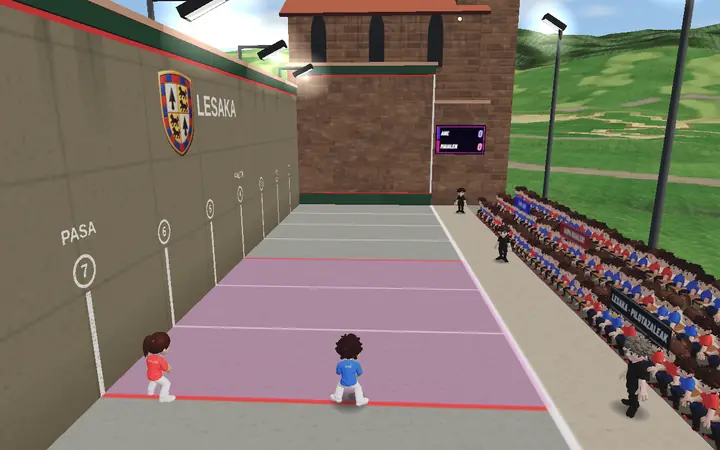
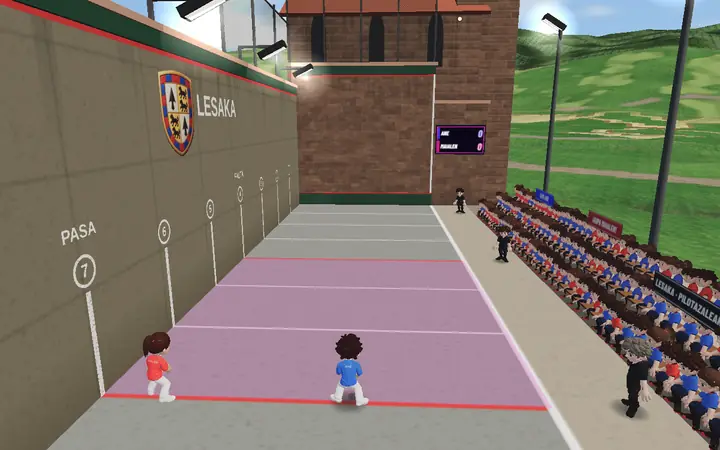
Frontones con la arquitectura de los de verdad: cada cubierto como un frontón real de las fotos y la red de las plazas
Claude-Session: https://claude.ai/code/session_01LP3syHb7415C8M5w3wgHaS

Changed region(s): [[0.6111, 0.4044, 1.0, 1.0], [0.3056, 0.0, 0.6111, 0.1867]]

diff --git a/src/pelota/court.js b/src/pelota/court.js
@@ -121,6 +121,23 @@ const THEMES = {
 const LABRIT_CONTRA = 4.4;
 // el frontón cubierto de los campeonatos: alto hasta el techo y contracancha algo más ancha (con la grada al lado)
 const HALL_H = 13, HALL_CONTRA = 3.4, HALL_ROWS = 7;
+// La arquitectura del cubierto de cada sede, sacada de las fotos de frontones de verdad del capítulo «Frontones de
+// Navarra» (src/assets/frontones): el techo, las paredes de encima de la cancha, la de detrás de la grada y el fondo. Los
+// colores de la cancha (frontis, pared izquierda, marco, suelo y rayas) van en fronton.js (ARQ_LOOK), con el contraste que
+// pide la pelota. pabellon: el de siempre, oscuro y moderno (el Navarra Arena); erminea: el Erminea de Isaba, techo blanco
+// con cerchas claras y tubos de luz; ziordia: igual de claro, con el frontis de sillería en su marco azul; iraneta: bóveda
+// de madera laminada con el ventanal en arco encima del frontis; igantzi: a dos aguas con cerchas de madera; urroz: a dos
+// aguas con cerchas rojas de acero en celosía y placas de policarbonato; peralta: la nave en dientes de sierra
+const ARQ = {
+  pabellon: { techo: 'oscuro', alto: '#e3dccd', sobre: '#24202c', derecha: 'madera', ventanas: 'franja', fondo: '#a7a29a' },
+  erminea: { techo: 'blanco', alto: '#f0ede6', sobre: '#f0ede6', claro: '#ece9e2', derecha: 'claro', ventanas: 'franja', fondo: '#d6d1c6', marcoLado: true, acero: '#cfd0d4' },
+  ziordia: { techo: 'blanco', alto: '#f1eee8', sobre: '#f1eee8', claro: '#ece8e0', derecha: 'claro', ventanas: 'franja', fondo: '#d9d3c7', marcoLado: true, acero: '#cfd0d4' },
+  iraneta: { techo: 'arco', alto: null, sobre: null, claro: '#e8e4d8', derecha: 'madera', ventanas: 'none', fondo: null },
+  igantzi: { techo: 'madera', alto: '#ebe6d9', sobre: '#ebe6d9', claro: '#e6e0d2', derecha: 'madera', ventanas: 'none', fondo: '#cdc6b6', marcoLado: true },
+  urroz: { techo: 'cerchas', alto: '#f4f1eb', sobre: '#f4f1eb', claro: '#efe9dc', derecha: 'policarbonato', ventanas: 'none', fondo: '#e0b84a' },
+  peralta: { techo: 'sierra', alto: '#ece6d8', sobre: '#e4ddcc', claro: '#ebe5d6', derecha: 'claro', ventanas: 'none', fondo: '#d4c8b0' },
+};
+export const ARQUITECTURAS = Object.keys(ARQ);
 export function labritExtent() {
   const W = COURT.W, EXT = COURT.L + 3, xr = W / 2 + LABRIT_CONTRA, zf = EXT + 0.3, xa = -W / 2 - 0.6, xb = xr + 14.6, za = -1.0, zb = zf + 14.6;
   return { x0: xa - 4.9, x1: xb + 4.9, z0: za - 4.9, z1: zb + 6.5 };
@@ -277,7 +294,7 @@ export class PelotaCourt {
     chapaLine.position.set(0, C.CHAPA, 0.035); g.add(chapaLine);   // (la raya, donde siempre: lo que da por debajo es chapa)
     // y arriba, como en los frontones de verdad, otra chapa: la franja de metal por encima de la raya de arriba del frontis
     // (lo que da ahí es fuera, y suena a chapa) con su colchón, el remate doblado que sobresale, como el de la de abajo
-    const chapaArribaMat = M({ color: th.chapa, metalness: th.chapaMetal ? 0.3 : 0, roughness: 0.48 }), hA = C.FRONT_H - C.FRONT_TOP;
+    const chapaArribaMat = M({ color: th.marco || th.chapa, metalness: th.chapaMetal && !th.marco ? 0.3 : 0, roughness: 0.48 }), hA = C.FRONT_H - C.FRONT_TOP;   // (con marco, del color del marco: el azul del Erminea de Isaba o de Ziordia)
     const chapaArriba = new T.Mesh(new T.BoxGeometry(W, hA, 0.05), chapaArribaMat); chapaArriba.position.set(0, C.FRONT_TOP + hA / 2, 0.025); chapaArriba.receiveShadow = true; chapaArriba.name = 'chapa-arriba'; g.add(chapaArriba);
     const colchonArriba = new T.Mesh(new T.BoxGeometry(W, 0.06, 0.11), chapaArribaMat); colchonArriba.position.set(0, C.FRONT_TOP + 0.03, 0.055); colchonArriba.castShadow = true; g.add(colchonArriba);
 
@@ -371,7 +388,7 @@ export class PelotaCourt {
     { const raya = new T.Mesh(new T.PlaneGeometry(EXT, 12 / 512 * C.LEFT_H), M({ color: th.mark, roughness: 0.7, polygonOffset: true, polygonOffsetFactor: -1, polygonOffsetUnits: -2 }));
       raya.rotation.y = Math.PI / 2; raya.position.set(-W / 2 + 0.008, C.LEFT_LINE, EXT / 2); raya.receiveShadow = true; raya.name = 'raya-izquierda'; g.add(raya);
       // (y encima de la raya, la chapa de arriba de la pared izquierda con su colchón, como la del frontis)
-      const mA = M({ color: th.chapa, metalness: th.chapaMetal ? 0.3 : 0, roughness: 0.48 }), hL = C.LEFT_H - C.LEFT_LINE - 0.02;
+      const mA = M({ color: th.marco || th.chapa, metalness: th.chapaMetal && !th.marco ? 0.3 : 0, roughness: 0.48 }), hL = C.LEFT_H - C.LEFT_LINE - 0.02;
       const chL = new T.Mesh(new T.BoxGeometry(0.05, hL, EXT), mA); chL.position.set(-W / 2 + 0.025, C.LEFT_LINE + 0.02 + hL / 2, EXT / 2); chL.receiveShadow = true; chL.name = 'chapa-izquierda'; g.add(chL);
       const coL = new T.Mesh(new T.BoxGeometry(0.11, 0.06, EXT), mA); coL.position.set(-W / 2 + 0.055, C.LEFT_LINE + 0.05, EXT / 2); coL.castShadow = true; g.add(coL); }
 
@@ -434,6 +451,7 @@ export class PelotaCourt {
     else if (HALL) this.buildHall(T, M, th, W, CONTRA, EXT, L, opts);
     else if (th.roof) this.buildRoof(T, M, th, -W / 2 - 0.6, W / 2 + CONTRA + 3.3, -0.9, EXT + 0.5);
     if (!opts.labrit && !HALL) this.buildFloods(T, M, !!th.roof, W, CONTRA, EXT, CALLE);
+    if (!opts.labrit && !HALL && th.red && !th.roof) this.buildRed(T, M, W, EXT);
     // dónde cabe la cámara del partido (match.js, cabe): bajo la cubierta, sin llegar a su estructura (más arriba, las
     // vigas, los tirantes y la chapa quedaban delante y tapaban la imagen entera); en el cubierto, sin pasar del rebote,
     // que llega al techo; en el Labrit, sin meterse en la grada del fondo. En el pueblo, Fronton añade las casas de detrás
@@ -768,41 +786,111 @@ export class PelotaCourt {
   // Sin anuncios ni escudos de clubes. Dentro no se ve nada de fuera: no hace falta paisaje.
   buildHall(T, M, th, W, CONTRA, EXT, L, opts = {}) {
     const C = COURT, g = this.group, H = HALL_H, xs = W / 2 + CONTRA + 0.2, RD = 0.8, RU = 0.42, xr = xs + HALL_ROWS * RD + 0.5, za = -0.8, zb = EXT + 0.4;
+    const A = ARQ[opts.arq] || ARQ.pabellon, ALTO = A.alto || th.wall, SOBRE = A.sobre || th.wall, FONDO = A.fondo || th.wall;
     const box = (w, h, d, mat, x, y, z) => { const m = new T.Mesh(new T.BoxGeometry(w, h, d), mat); m.position.set(x, y, z); m.receiveShadow = true; g.add(m); return m; };
-    // (el verde, solo en la cancha: las paredes altas y la de delante de la contracancha, claras; la de detrás de la grada,
-    // de madera de pino barnizada; el fondo, de hormigón)
-    const wallM = M({ color: '#e3dccd', roughness: 0.92 }), concrete = M({ color: '#bdb6c4', roughness: 0.95 }), dark = M({ color: '#24202c', roughness: 0.8 });   // (la grada, de hormigón claro: oscura parecía un muro)
-    const fondoM = M({ color: '#a7a29a', roughness: 0.95 });
-    const steel = M({ color: '#5d5a66', roughness: 0.5, metalness: 0.45 });
-    // el muro alto: la pared izquierda sube hasta el techo con una franja de ventanales arriba (luz de día, sin sol directo)
+    // una barra de x0,y0 a x1,y1 en el plano z (las cerchas, los arcos y las correas)
+    const barra = (x0, y0, x1, y1, z, t, mat, d = t) => { const m = new T.Mesh(new T.BoxGeometry(Math.hypot(x1 - x0, y1 - y0), t, d), mat); m.position.set((x0 + x1) / 2, (y0 + y1) / 2, z); m.rotation.z = Math.atan2(y1 - y0, x1 - x0); g.add(m); return m; };
+    const tri = (pts, mat) => { const geo = new T.BufferGeometry(); geo.setAttribute('position', new T.Float32BufferAttribute(pts.flat(), 3)); geo.computeVertexNormals(); const m = new T.Mesh(geo, mat); g.add(m); return m; };
+    // (el verde, solo en la cancha: las paredes altas y la de delante de la contracancha, del color de su modelo; la de
+    // detrás de la grada, de madera, clara o de policarbonato; el fondo, de hormigón o pintado)
+    const wallM = M({ color: A.claro || '#e3dccd', roughness: 0.92 }), altoM = M({ color: ALTO, roughness: 0.92 }), concrete = M({ color: '#bdb6c4', roughness: 0.95 }), dark = M({ color: SOBRE, roughness: 0.85 });   // (la grada, de hormigón claro: oscura parecía un muro)
+    const fondoM = M({ color: FONDO, roughness: 0.95 });
+    const steel = M({ color: A.acero || '#5d5a66', roughness: 0.5, metalness: A.acero ? 0.2 : 0.45 });
+    // el muro alto: la pared izquierda sube hasta el techo; con franja de ventanales arriba (luz de día, sin sol directo)
     const winTex = canvasTex(T, 1024, 256, (c, w, h) => {
-      c.fillStyle = '#e3dccd'; c.fillRect(0, 0, w, h); grain(c, w, h, 5000, 0.05);
+      c.fillStyle = ALTO; c.fillRect(0, 0, w, h); grain(c, w, h, 5000, 0.05);
       const n = 12, pw = w / n; for (let i = 0; i < n; i++) { const gr = c.createLinearGradient(0, h * 0.2, 0, h * 0.8); gr.addColorStop(0, '#e9f0ff'); gr.addColorStop(1, '#b9c4e6');
         c.fillStyle = gr; c.fillRect(i * pw + pw * 0.12, h * 0.22, pw * 0.76, h * 0.56); c.fillStyle = 'rgba(40,40,60,.55)'; c.fillRect(i * pw + pw * 0.5 - 2, h * 0.22, 4, h * 0.56); c.fillRect(i * pw + pw * 0.12, h * 0.5 - 2, pw * 0.76, 4); }
     });
-    const upH = H - C.LEFT_H - 0.2, upL = new T.Mesh(new T.BoxGeometry(0.6, upH, EXT + 1.2), [M({ map: winTex, emissive: '#ffffff', emissiveMap: winTex, emissiveIntensity: 0.25 }), wallM, wallM, wallM, wallM, wallM]);
+    const upH = H - C.LEFT_H - 0.2, upL = new T.Mesh(new T.BoxGeometry(0.6, upH, EXT + 1.2), [A.ventanas === 'franja' ? M({ map: winTex, emissive: '#ffffff', emissiveMap: winTex, emissiveIntensity: 0.25 }) : altoM, wallM, wallM, wallM, wallM, wallM]);
     upL.position.set(-W / 2 - 0.3, C.LEFT_H + 0.2 + upH / 2, EXT / 2); g.add(upL);
-    // por encima del frontis, hasta el techo, oscuro (así resalta el marcador); y la pared de delante de la contracancha
+    // por encima del frontis, hasta el techo (oscuro en el pabellón: así resalta el marcador); y la pared de delante de la
+    // contracancha
     box(xr - (-W / 2 - 0.6), H - C.FRONT_H, 0.6, dark, (xr + (-W / 2 - 0.6)) / 2, C.FRONT_H + (H - C.FRONT_H) / 2, za);
     box(xr - (W / 2 + 0.3), C.FRONT_H, 0.6, wallM, (xr + W / 2 + 0.3) / 2, C.FRONT_H / 2, za);
+    // el marco del frontis por su lado derecho (el Erminea de Isaba, Ziordia, Igantzi): la franja de color que lo cierra,
+    // fuera de la cancha, sobre la pared de delante de la contracancha
+    if (th.marco && A.marcoLado) { const mm = M({ color: th.marco, roughness: 0.6 }); box(0.5, C.FRONT_H, 0.04, mm, W / 2 + 0.55, C.FRONT_H / 2, za + 0.32); box(0.32, C.FRONT_H, 0.3, mm, W / 2 + 0.16, C.FRONT_H / 2, -0.18); }
     // el fondo, detrás de la contracancha y de la grada (el rebote ya llega al techo)
     box(xr - (W / 2 + 0.3), H, 0.6, fondoM, (xr + W / 2 + 0.3) / 2, H / 2, zb);
-    // la pared derecha, detrás de la grada: ventanales arriba, sin escudo ni nombre (el autor los quiere solo en la pared
-    // izquierda; antes llevaba el escudo grande en medio)
+    // la pared derecha, detrás de la grada: de tablas de pino barnizado con ventanales arriba (el pabellón, Irañeta,
+    // Igantzi), clara con su franja de ventanas (Isaba, Ziordia, Peralta) o de placas de policarbonato que dejan pasar la
+    // luz (Urroz). Sin escudo ni nombre: el autor los quiere solo en la pared izquierda
     const rTex = canvasTex(T, 2048, 512, (c, w, h) => {
-      // (tablas verticales de pino barnizado, cada una de su tono, con su junta)
-      const nt = 96, tw = w / nt;
-      for (let i = 0; i < nt; i++) { const k = 0.9 + ((i * 37) % 11) / 55; c.fillStyle = `rgb(${Math.round(176 * k)},${Math.round(124 * k)},${Math.round(74 * k)})`; c.fillRect(i * tw, 0, tw, h); c.fillStyle = 'rgba(60,32,12,.35)'; c.fillRect(i * tw, 0, 2, h); }
-      grain(c, w, h, 9000, 0.04); grain(c, w, h, 3000, 0.04, false);
-      const n = 14, pw = w / n; for (let i = 0; i < n; i++) { c.fillStyle = '#d8e2fa'; c.fillRect(i * pw + pw * 0.15, h * 0.04, pw * 0.7, h * 0.16); }
+      if (A.derecha === 'madera') {   // (tablas verticales de pino barnizado, cada una de su tono, con su junta)
+        const nt = 96, tw = w / nt;
+        for (let i = 0; i < nt; i++) { const k = 0.9 + ((i * 37) % 11) / 55; c.fillStyle = `rgb(${Math.round(176 * k)},${Math.round(124 * k)},${Math.round(74 * k)})`; c.fillRect(i * tw, 0, tw, h); c.fillStyle = 'rgba(60,32,12,.35)'; c.fillRect(i * tw, 0, 2, h); }
+        grain(c, w, h, 9000, 0.04); grain(c, w, h, 3000, 0.04, false);
+      } else if (A.derecha === 'policarbonato') {   // (placas onduladas translúcidas, con su perfil cada metro)
+        const gr = c.createLinearGradient(0, 0, 0, h); gr.addColorStop(0, '#f4f7fb'); gr.addColorStop(1, '#d7dde6'); c.fillStyle = gr; c.fillRect(0, 0, w, h);
+        for (let x = 0; x < w; x += 6) { c.fillStyle = `rgba(120,130,150,${x % 12 ? 0.05 : 0.12})`; c.fillRect(x, 0, 3, h); }
+        const n = 40, pw = w / n; for (let i = 0; i <= n; i++) { c.fillStyle = 'rgba(70,74,86,.55)'; c.fillRect(i * pw - 3, 0, 6, h); }
+        c.fillStyle = 'rgba(70,74,86,.55)'; c.fillRect(0, h * 0.5 - 3, w, 6);
+      } else { c.fillStyle = A.claro || '#ece8e0'; c.fillRect(0, 0, w, h); grain(c, w, h, 6000, 0.04); }
+      if (A.derecha !== 'policarbonato') { const n = 14, pw = w / n; for (let i = 0; i < n; i++) { c.fillStyle = '#d8e2fa'; c.fillRect(i * pw + pw * 0.15, h * 0.04, pw * 0.7, h * 0.16); } }
     });
-    const rw = new T.Mesh(new T.BoxGeometry(0.6, H, zb - za), [wallM, M({ map: rTex }), wallM, wallM, wallM, wallM]);   // (la cara −x mira a la cancha)
+    const rIn = A.derecha === 'policarbonato' ? M({ map: rTex, emissive: '#ffffff', emissiveMap: rTex, emissiveIntensity: 0.35 }) : M({ map: rTex });
+    const rw = new T.Mesh(new T.BoxGeometry(0.6, H, zb - za), [wallM, rIn, wallM, wallM, wallM, wallM]);   // (la cara −x mira a la cancha)
     rw.position.set(xr + 0.3, H / 2, (za + zb) / 2); g.add(rw);
-    // el techo: oscuro, con cerchas de acero de lado a lado y filas de luces del pabellón (paneles blancos encendidos)
-    box(xr - (-W / 2 - 0.6) + 0.6, 0.3, zb - za + 0.6, dark, (xr + (-W / 2 - 0.6)) / 2, H + 0.15, (za + zb) / 2);
-    for (let z = 2; z < zb; z += 4) { box(xr + W / 2 + 0.6, 0.5, 0.18, steel, (xr + (-W / 2 - 0.6)) / 2, H - 0.45, z); }
-    box(0.2, 0.6, zb - za, steel, 0, H - 0.75, (za + zb) / 2); box(0.2, 0.6, zb - za, steel, xs - 0.5, H - 0.75, (za + zb) / 2);
-    const lampM = new T.MeshBasicMaterial({ color: '#fbfaff', toneMapped: false }), lampG = new T.BoxGeometry(1.5, 0.12, 0.7);
+    // el techo, como el de su modelo
+    const xl = -W / 2 - 0.6, xR = xr + 0.6, xm = (xl + xR) / 2, span = xR - xl, z0r = za - 0.3, z1r = zb + 0.3;
+    const lampM = new T.MeshBasicMaterial({ color: '#fbfaff', toneMapped: false }), lampG = new T.BoxGeometry(A.techo === 'blanco' ? 0.35 : 1.5, 0.12, A.techo === 'blanco' ? 3.2 : 0.7);
+    if (A.techo === 'oscuro' || A.techo === 'blanco') {
+      // plano: oscuro con cerchas de acero (el pabellón) o blanco con cerchas claras y tubos de luz a lo largo (Isaba, Ziordia)
+      box(span, 0.3, z1r - z0r, A.techo === 'blanco' ? M({ color: '#efece6', roughness: 0.9 }) : M({ color: '#24202c', roughness: 0.8 }), xm, H + 0.15, (za + zb) / 2);
+      for (let z = 2; z < zb; z += 4) box(span - 1.2, 0.5, 0.18, steel, xm, H - 0.45, z);
+      box(0.2, 0.6, zb - za, steel, 0, H - 0.75, (za + zb) / 2); box(0.2, 0.6, zb - za, steel, xs - 0.5, H - 0.75, (za + zb) / 2);
+    } else if (A.techo === 'cerchas' || A.techo === 'madera') {
+      // a dos aguas, con cerchas de lado a lado cada 4 m: de acero pintado de rojo y celosía (Urroz) o de madera, con su
+      // pendolón y sus tornapuntas (Igantzi); por encima, las correas y la chapa (o las tablas)
+      const R = 2.6, ym = H + R, madera = A.techo === 'madera', t = madera ? 0.26 : 0.14, bajo = H - (madera ? 0.2 : 0.55);
+      const cub = canvasTex(T, 512, 512, (c, w, h) => {
+        if (madera) { const n = 24, ph = h / n; for (let i = 0; i < n; i++) { const k = 0.88 + ((i * 29) % 9) / 40; c.fillStyle = `rgb(${Math.round(190 * k)},${Math.round(140 * k)},${Math.round(88 * k)})`; c.fillRect(0, i * ph, w, ph - 2); } grain(c, w, h, 6000, 0.05); }
+        else { c.fillStyle = '#d5dade'; c.fillRect(0, 0, w, h); for (let x = 0; x < w; x += 16) { c.fillStyle = 'rgba(255,255,255,.35)'; c.fillRect(x, 0, 5, h); c.fillStyle = 'rgba(0,0,0,.12)'; c.fillRect(x + 8, 0, 4, h); } }
+      }, [4, 6]);
+      const cubM = M({ map: cub, side: T.DoubleSide, roughness: 0.75 });
+      for (const [xa, xb] of [[xl, xm], [xR, xm]]) tri([[xa, H, z0r], [xb, ym, z0r], [xb, ym, z1r], [xa, H, z0r], [xb, ym, z1r], [xa, H, z1r]], cubM);
+      // (los dos hastiales, cerrando el techo por delante y por detrás)
+      const hastM = M({ color: SOBRE, roughness: 0.9, side: T.DoubleSide }), fondoD = M({ color: FONDO, roughness: 0.9, side: T.DoubleSide });
+      tri([[xl, H, za], [xR, H, za], [xm, ym, za]], hastM); tri([[xl, H, zb], [xR, H, zb], [xm, ym, zb]], fondoD);
+      const cer = M({ color: madera ? '#8a5a30' : '#c22a24', roughness: madera ? 0.7 : 0.45, metalness: madera ? 0 : 0.25 });
+      for (let z = 1.8; z < zb - 0.5; z += 4) {
+        barra(xl + 0.3, H - 0.1, xm, ym - 0.12, z, t, cer); barra(xR - 0.3, H - 0.1, xm, ym - 0.12, z, t, cer);   // (los pares)
+        barra(xl + 0.3, bajo, xR - 0.3, bajo, z, t, cer);   // (el tirante)
+        if (madera) { barra(xm, bajo, xm, ym - 0.2, z, t, cer); for (const s of [-1, 1]) barra(xm, bajo + 0.3, xm + s * span * 0.22, H + R * 0.47, z, t * 0.8, cer); }   // (el pendolón y las tornapuntas)
+        else { const n = 8; for (let i = 1; i < n; i++) { const x = xl + 0.3 + (xR - xl - 0.6) * i / n, yt = H - 0.1 + (ym - 0.12 - (H - 0.1)) * (1 - Math.abs(x - xm) / (xm - xl - 0.3)), xp = xl + 0.3 + (xR - xl - 0.6) * (i - 1) / n;
+          barra(x, bajo, x, yt, z, t * 0.7, cer); const ytp = H - 0.1 + (ym - 0.12 - (H - 0.1)) * (1 - Math.abs(xp - xm) / (xm - xl - 0.3)); barra(i <= n / 2 ? xp : x, i <= n / 2 ? bajo : yt, i <= n / 2 ? x : xp, i <= n / 2 ? yt : bajo, z, t * 0.55, cer); } }   // (la celosía)
+      }
+      for (const k of [0.25, 0.55, 0.85]) for (const [xa, xb] of [[xl, xm], [xR, xm]]) { const x = xa + (xb - xa) * k, y = H + R * k - 0.18; box(0.12, 0.18, zb - za, cer, x, y, (za + zb) / 2); }   // (las correas)
+    } else if (A.techo === 'arco') {
+      // bóveda de madera laminada (Irañeta): arcos de lado a lado cada 4 m, el techo de tablas y, por encima del frontis,
+      // el ventanal en arco que llena la cancha de luz
+      const R = 3.6, N = 18, curva = (k) => [xl + span * k, H + R * Math.sin(Math.PI * k)];
+      const tab = canvasTex(T, 512, 512, (c, w, h) => { const n = 28, ph = h / n; for (let i = 0; i < n; i++) { const k = 0.88 + ((i * 29) % 9) / 40; c.fillStyle = `rgb(${Math.round(200 * k)},${Math.round(150 * k)},${Math.round(96 * k)})`; c.fillRect(0, i * ph, w, ph - 2); } grain(c, w, h, 6000, 0.05); }, [6, 8]);
+      const pos = [], uv = [];
+      for (let i = 0; i < N; i++) { const [x0, y0] = curva(i / N), [x1, y1] = curva((i + 1) / N);
+        pos.push(x0, y0, z0r, x1, y1, z0r, x1, y1, z1r, x0, y0, z0r, x1, y1, z1r, x0, y0, z1r); uv.push(i / N, 0, (i + 1) / N, 0, (i + 1) / N, 1, i / N, 0, (i + 1) / N, 1, i / N, 1); }
+      const vg = new T.BufferGeometry(); vg.setAttribute('position', new T.Float32BufferAttribute(pos, 3)); vg.setAttribute('uv', new T.Float32BufferAttribute(uv, 2)); vg.computeVertexNormals();
+      g.add(new T.Mesh(vg, M({ map: tab, side: T.DoubleSide, roughness: 0.75 })));
+      const lam = M({ color: '#b07a44', roughness: 0.65 });
+      for (let z = 1.8; z < zb - 0.5; z += 4) for (let i = 0; i < N; i++) { const [x0, y0] = curva(i / N), [x1, y1] = curva((i + 1) / N); barra(x0, y0 - 0.32, x1, y1 - 0.32, z, 0.55, lam, 0.24); }
+      // (los dos tímpanos: el de delante, acristalado con sus montantes; el de detrás, de la pared)
+      const vid = M({ color: '#dfe9fb', emissive: '#cfdcf5', emissiveIntensity: 0.55, roughness: 0.2, side: T.DoubleSide }), fondoD = M({ color: FONDO, roughness: 0.9, side: T.DoubleSide });
+      for (let i = 0; i < N; i++) { const [x0, y0] = curva(i / N), [x1, y1] = curva((i + 1) / N); tri([[x0, H, za], [x1, H, za], [x1, y1, za], [x0, H, za], [x1, y1, za], [x0, y0, za]], vid); tri([[x0, H, zb], [x1, H, zb], [x1, y1, zb], [x0, H, zb], [x1, y1, zb], [x0, y0, zb]], fondoD); }
+      for (let i = 1; i < 8; i++) { const [x, y] = curva(i / 8); box(0.12, y - H, 0.12, lam, x, H + (y - H) / 2, za + 0.1); }
+      box(span, 0.14, 0.14, lam, xm, H + 0.07, za + 0.1);
+    } else if (A.techo === 'sierra') {
+      // dientes de sierra (la nave de Peralta): faldones inclinados y, entre uno y otro, el lucernario vertical que mete la
+      // luz del norte; cerchas blancas debajo
+      const R = 2.4, P = (zb - za) / 5, vid = M({ color: '#e3ecfb', emissive: '#d3def5', emissiveIntensity: 0.6, roughness: 0.2, side: T.DoubleSide });
+      const fal = M({ color: '#e4e2dc', roughness: 0.85, side: T.DoubleSide }), bl = M({ color: '#f2f1ec', roughness: 0.5 });
+      for (let k = 0; k < 5; k++) { const zA = za + k * P, zB = zA + P;
+        tri([[xl, H + R, zA], [xR, H + R, zA], [xR, H, zB], [xl, H + R, zA], [xR, H, zB], [xl, H, zB]], fal);
+        if (k < 4) tri([[xl, H, zB], [xR, H, zB], [xR, H + R, zB], [xl, H, zB], [xR, H + R, zB], [xl, H + R, zB]], vid);
+        barra(xl, H - 0.4, xR, H - 0.4, zB - 0.2, 0.22, bl); for (let i = 1; i < 6; i++) box(0.1, R + 0.4, 0.1, bl, xl + span * i / 6, H - 0.4 + (R + 0.4) / 2, zA + 0.15);
+      }
+      tri([[xl, H, za], [xR, H, za], [xR, H + R, za], [xl, H, za], [xR, H + R, za], [xl, H + R, za]], dark);
+    }
     const lamps = []; for (const x of [-W / 4, W / 4, xs + 1.6]) for (let z = 2.8; z < EXT - 0.5; z += 4) lamps.push([x, z]);
     const LI = new T.InstancedMesh(lampG, lampM, lamps.length), m4 = new T.Matrix4();
     lamps.forEach(([x, z], i) => LI.setMatrixAt(i, m4.makeTranslation(x, H - 1.1, z))); LI.name = 'luces-pabellon'; g.add(LI);
@@ -833,6 +921,28 @@ export class PelotaCourt {
     this.entry = { x: W / 2 + CONTRA / 2, z: EXT - 1.2 };
     this.hall = true;
     g.traverse(o => { if (o.isMesh) o.castShadow = false; });   // (bajo techo, con la luz del pabellón: sin sombras que crucen la cancha)
+  }
+  // La red de las plazas (Leitza, Mendaza, Areso, Nazar, Genevilla: casi todos los frontones de pueblo la tienen): postes
+  // de acero sobre el frontis y sobre el principio de la pared izquierda, con la red tendida entre ellos para que la pelota
+  // no se vaya a los tejados. Por encima de lo que se juega: no cambia nada del partido
+  buildRed(T, M, W, EXT) {
+    const C = COURT, g = this.group, HR = 5.2, LR = Math.min(EXT * 0.42, 14), steel = M({ color: '#6c7176', roughness: 0.45, metalness: 0.55 });
+    const netTex = canvasTex(T, 256, 256, (c, w, h) => {
+      c.strokeStyle = 'rgba(34,44,40,.85)'; c.lineWidth = 3.5; const n = 8, st = w / n;   // (hilos gruesos: con hilos finos, a lo lejos la red desaparecía)
+      for (let i = -n; i <= 2 * n; i++) { c.beginPath(); c.moveTo(i * st, 0); c.lineTo(i * st + h, h); c.stroke(); c.beginPath(); c.moveTo(i * st, 0); c.lineTo(i * st - h, h); c.stroke(); }
+    });
+    netTex.wrapS = netTex.wrapT = T.RepeatWrapping;
+    const netM = M({ map: netTex, transparent: true, depthWrite: false, side: T.DoubleSide, roughness: 0.9 });
+    const tela = (w, h) => { const geo = new T.PlaneGeometry(w, h), uv = geo.attributes.uv; for (let i = 0; i < uv.count; i++) uv.setXY(i, uv.getX(i) * w / 1.1, uv.getY(i) * h / 1.1); return geo; };
+    // sobre el frontis
+    const x0 = -W / 2 - 0.6, x1 = W / 2, fw = x1 - x0;
+    const nf = new T.Mesh(tela(fw, HR), netM); nf.position.set((x0 + x1) / 2, C.FRONT_H + 0.24 + HR / 2, -0.4); nf.renderOrder = 2; g.add(nf);
+    for (let i = 0; i <= 4; i++) { const p = new T.Mesh(new T.BoxGeometry(0.12, HR + 0.6, 0.12), steel); p.position.set(x0 + 0.06 + (fw - 0.12) * i / 4, C.FRONT_H + 0.24 + (HR + 0.6) / 2 - 0.3, -0.4); g.add(p); }
+    for (const y of [C.FRONT_H + 0.3, C.FRONT_H + 0.24 + HR]) { const t = new T.Mesh(new T.BoxGeometry(fw, 0.07, 0.07), steel); t.position.set((x0 + x1) / 2, y, -0.4); g.add(t); }
+    // y sobre el principio de la pared izquierda, algo más baja
+    const hl = HR - 1.2, nl = new T.Mesh(tela(LR, hl), netM); nl.rotation.y = Math.PI / 2; nl.position.set(-W / 2 - 0.3, C.LEFT_H + 0.2 + hl / 2, LR / 2); nl.renderOrder = 2; g.add(nl);
+    for (let i = 1; i <= 3; i++) { const z = LR * i / 3, p = new T.Mesh(new T.BoxGeometry(0.12, hl + 0.5, 0.12), steel); p.position.set(-W / 2 - 0.3, C.LEFT_H + 0.2 + (hl + 0.5) / 2 - 0.25, z); g.add(p); }
+    { const t = new T.Mesh(new T.BoxGeometry(0.07, 0.07, LR), steel); t.position.set(-W / 2 - 0.3, C.LEFT_H + 0.2 + hl, LR / 2); g.add(t); }
   }
   /** El marcador del Labrit: los dos nombres con su color y los tantos. */
   setScore(you, rival, a, b) {

diff --git a/src/game/torneo.js b/src/game/torneo.js
@@ -26,6 +26,7 @@ import COMARCAS from '../data/comarcas.json';
 import { iconSVG } from '../ui/icons.js';
 import { enCss } from '../util/tele.js';
 import { minstd } from '../util/math.js';
+import { arqDe, ARQ_REF } from '../data/frontonArq.js';
 import { fotoFronton, canchaImg } from '../ui/frontonFotos.js';
 // (el idioma, el que marca la página: en euskera, «eu»)
 const isEU = () => typeof document !== 'undefined' && document.documentElement?.lang === 'eu';
@@ -693,7 +694,7 @@ const EF_CSS = `
 .ef-pic>.ico{position:absolute;inset:0;margin:auto;width:38%;height:auto;opacity:.8}
 .ef-real{position:absolute;right:8px;bottom:8px;display:flex;flex-direction:column;align-items:center;gap:2px;width:34%;padding:4px 4px 3px;border-radius:8px;background:rgba(18,6,40,.55);border:1px solid rgba(255,255,255,.18)}
 .ef-real img{display:block;width:100%;aspect-ratio:16/10;object-fit:cover;border-radius:6px}
-.ef-real small{font:800 10px/1.1 var(--f-cond);letter-spacing:.08em;text-transform:uppercase;color:#ffe6a6}
+.ef-real small{font:800 10px/1.1 var(--f-cond);letter-spacing:.06em;text-transform:uppercase;color:#ffe6a6;text-align:center;max-width:100%}
 .ef-txt{display:flex;flex-direction:column;flex:none;gap:3px;padding:10px 14px 14px}
 .ef-txt small{color:var(--rosa);font:800 var(--fs-xs)/1.2 var(--f-cond);letter-spacing:.1em;text-transform:uppercase}
 .ef-txt b{font:400 var(--fs-xl)/1.05 var(--f-display);text-transform:uppercase}
@@ -714,7 +715,11 @@ const idDe = (nombre) => LEVELS.find(l => l.name.split(' /')[0] === nombre)?.id 
 const comarcaDe = (id) => COMARCAS.find(c => c.id === levelById(id)?.comarca)?.name || '';
 // (la tarjeta de un frontón: k, la sede; id, el pueblo)
 function efTarjeta(k, id, here, o, sel) {
-  const eu = isEU(), real = k === 'labrit' ? fotoFronton('labrit') : k === 'plaza' && id === 'leitza' ? fotoFronton('leitza') : '';
+  // (la foto pequeña: la del frontón de verdad, el Labrit y la plaza de Leitza; en los cubiertos, la del frontón real en
+  // que se basa su arquitectura, data/frontonArq.js: «Como el de Isaba»)
+  const eu = isEU(), aid = k === 'cubierto' ? id : k === 'fuera' ? o.fueraId : null, ref = aid ? ARQ_REF[arqDe(levelById(aid))] : null;
+  const real = k === 'labrit' ? fotoFronton('labrit') : k === 'plaza' && id === 'leitza' ? fotoFronton('leitza') : ref ? fotoFronton(ref[0]) : '';
+  const realTxt = ref && real ? (eu ? ref[2] : ref[1]) : (eu ? 'Benetakoa' : 'El de verdad');
   const img = canchaImg(k === 'fuera' ? o.fueraId : id, k === 'fuera' ? 'cubierto' : k);
   const D = {
     plaza: [comarcaDe(id), eu ? `${here} · frontoia` : `Frontón de ${here}`, eu ? 'Kanpoan' : 'Al aire libre', SEDE_SUB.plaza()],
@@ -723,7 +728,7 @@ function efTarjeta(k, id, here, o, sel) {
     fuera: [comarcaDe(o.fueraId), eu ? `${o.fuera} · estalia` : `Cubierto de ${o.fuera}`, eu ? 'Estalia · harmailak' : 'Cubierto · con grada', SEDE_SUB.fuera()],
   }[k];
   return `<button type="button" class="ef-it${k === sel ? ' on' : ''}" data-k="${k}" aria-pressed="${k === sel}">
-    <span class="ef-pic">${img ? `<img src="${img}" alt="" decoding="async">` : iconSVG('pelota', 96)}${real ? `<i class="ef-real"><img src="${real}" alt="" decoding="async"><small>${eu ? 'Benetakoa' : 'El de verdad'}</small></i>` : ''}</span>
+    <span class="ef-pic">${img ? `<img src="${img}" alt="" decoding="async">` : iconSVG('pelota', 96)}${real ? `<i class="ef-real"><img src="${real}" alt="" decoding="async"><small>${esc(realTxt)}</small></i>` : ''}</span>
     <span class="ef-txt"><small>${esc(D[0])}</small><b>${esc(D[1])}</b><em>${esc(D[2])}</em><span>${esc(D[3])}</span></span></button>`;
 }
 function eligeFronton(btn, o, here) {

diff --git a/src/game/fronton.js b/src/game/fronton.js
@@ -1,5 +1,6 @@
 // Frontón de los pueblos y partido de pelota a mano con el motor común de src/pelota.
 // Aquí solo se adapta el motor al juego: dónde va el frontón, colisiones, personajes, cámara e interfaz.
+import { arqDe, ARQ_LOOK } from '../data/frontonArq.js';
 import * as THREE from 'three';
 import { armSwing, GlbRig, loadMeshy, hasMeshy, loadedMeshy, fullTexFor, avatarIsGirl } from '../actors/glbChar.js';
 import { hairTint } from '../actors/hairColor.js';
@@ -141,11 +142,12 @@ const LOOK_TOWN = {
   tafalla: { ...COVERED, roof: 'metal', frontis: GREEN, wall: GREEN },
   tudela: { roof: 'metal', chapa: '#c9d0d4', chapaMetal: true },
   ujue: { stone: STONE.grey, wall: PLASTER }, javier: { stone: STONE.grey },
+  leitza: { frontis: '#b3b1aa', stone: null },   // (el de la plaza, como el de verdad: frontis de revoco gris, gastado, con su red encima)
 };
 export function frontonLook(def = {}) {
   const cid = LOOK_COMARCA[def.comarca] ? def.comarca : FAMILY[def.family], c = LOOK_COMARCA[cid] || {};
   const i = Math.max(0, LEVELS.filter(l => l.comarca === cid && !l.special && !l.bosque).findIndex(l => l.id === def.id)), V = VARIANTS[cid] || [{}];
-  return legible({ ...c, ...V[i % V.length], ...(LOOK_TOWN[def.id] || {}) });
+  return legible({ red: true, ...c, ...V[i % V.length], ...(LOOK_TOWN[def.id] || {}) });   // (red: la de encima del frontis, en las plazas)
 }
 // que la pelota se vea siempre bien: contra el frontis, la pared izquierda y el suelo, la pelota (casi blanca) ha de ser
 // al menos tres veces más clara (el cociente de luminancias de las pautas de legibilidad; 2,6 contra el suelo, que se ve
@@ -331,15 +333,18 @@ const HALL_LOOK = { frontis: '#2b6a56', wall: '#2b6a56', floor: '#5b6461', contr
 // (cada cubierto con sus colores: las paredes, del color del frontón de la calle del pueblo si son de color, o uno de los
 // de los reglamentos; las butacas, de otro. Antes eran todos verdes con butacas moradas, iguales en todos los pueblos)
 const HALL_PARED = [GREEN, BLUE, '#2b6a56', '#3d5f8a', '#4f7a5c', '#6a5a8c'], HALL_SILLA = [['#5b34c4', '#8e6ae8'], ['#b0262c', '#e0565c'], ['#1f5fa8', '#5a8fd8'], ['#1f7a4a', '#4fb07a'], ['#c06a12', '#eba04a'], ['#2a2a32', '#6a6a78']];
-function hallLook(def, seed = 0) {
+function hallLook(def, seed = 0, arq = 'pabellon') {
   const L = frontonLook(def), col = L.frontis && !L.stone && L.frontis !== PLASTER ? L.frontis : HALL_PARED[seed % HALL_PARED.length], [s1, s2] = HALL_SILLA[(seed >> 3) % HALL_SILLA.length];
-  return { ...HALL_LOOK, frontis: col, wall: col, cap: col, seat: s1, seat2: s2 };
+  // (con la arquitectura de su modelo de verdad, sus colores: data/frontonArq.js; el pabellón, los de antes)
+  const A = ARQ_LOOK[arq] || {};
+  return legible({ ...HALL_LOOK, frontis: col, wall: col, seat: s1, seat2: s2, ...A, cap: A.wall || col });
 }
 export function hallVenue(scene, out, def) {
   if (HALL && HALL.court.group.parent === scene && HALL.town === def?.id) return HALL;
   if (HALL) { try { HALL.dispose(); } catch (e) { console.warn('frontón cubierto', e); } }
   const W = frontonWall(def || {}), town = (def?.name || '').split(' /')[0];
-  HALL = new Fronton(scene, { x: out.x, z: out.z, y: 2400, ry: 0 }, town, { ...W, estilo: null, look: hallLook(def || {}, W.seed), hall: true, noClear: true });
+  const arq = arqDe(def || {});
+  HALL = new Fronton(scene, { x: out.x, z: out.z, y: 2400, ry: 0 }, town, { ...W, estilo: null, look: hallLook(def || {}, W.seed, arq), hall: true, arq, noClear: true });
   HALL.town = def?.id; HALL.townName = town;   // (el de otro pueblo, en los campeonatos: su nombre en el partido)
   return HALL;
 }

diff --git a/src/data/frontonArq.js b/src/data/frontonArq.js
@@ -1,0 +1,33 @@
+// La arquitectura del frontón cubierto de cada sede de los campeonatos (pelota/court.js, ARQ), sacada de las fotos de
+// frontones de verdad del capítulo «Frontones de Navarra» (src/assets/frontones). Cada sede, con la de un frontón real de
+// su tierra: Elizondo, la bóveda de madera de Irañeta; Lesaka, las cerchas de madera de Igantzi (de las mismas Cinco
+// Villas); Leitza y Tafalla, el frontis de sillería en su marco azul de Ziordia; Estella, el Erminea de Isaba; Sangüesa y
+// Puente la Reina, las cerchas rojas de Urroz; Marcilla, la nave en dientes de sierra de Peralta, su vecina; Iruña, el
+// pabellón moderno. Los demás pueblos, la de su comarca.
+export const ARQ_TOWN = { pamplona: 'pabellon', elizondo: 'iraneta', lesaka: 'igantzi', leitza: 'ziordia', tafalla: 'ziordia', estella: 'erminea', sanguesa: 'urroz', 'puente-la-reina': 'urroz', marcilla: 'peralta' };
+const ARQ_COMARCA = { bidasoa: 'igantzi', pirineo: 'erminea', 'larraun-leitzaldea': 'ziordia', sakana: 'iraneta', pamplona: 'pabellon', prepirineo: 'urroz', sanguesa: 'urroz', 'tierra-estella': 'erminea', 'valdizarbe-novenera': 'urroz', 'zona-media': 'ziordia', ribera: 'peralta', 'ribera-alta': 'peralta' };
+/** La arquitectura del cubierto de un pueblo (su def de data/levels.js). */
+export const arqDe = (def = {}) => ARQ_TOWN[def.id] || ARQ_COMARCA[def.comarca] || 'pabellon';
+// los colores de la cancha de cada modelo, como en su foto, con el contraste que pide la pelota (fronton.js los pasa por
+// legible: lo que es más claro de la cuenta se oscurece sin cambiar de tono). frontis: hormigón pintado; stone: sillería;
+// marco: la franja de encima del frontis y de la pared izquierda (y su lado derecho en los que la llevan); line: las
+// rayas (amarillas en Isaba e Irañeta)
+export const ARQ_LOOK = {
+  pabellon: {},
+  erminea: { frontis: '#8e9295', wall: '#3f8a4a', marco: '#1d4fc4', line: '#f2cf3a', floor: '#7c8782', contra: '#9ea6a1' },
+  ziordia: { stone: '#a68d66', wall: '#1f55b5', marco: '#1d4fc4', floor: '#868b88', contra: '#a3a7a4' },
+  iraneta: { frontis: '#5a9a48', wall: '#5a9a48', marco: '#e9c43b', line: '#f2cf3a', floor: '#8a8e86', contra: '#a5a79f' },
+  igantzi: { stone: '#8f9599', wall: '#3d8350', marco: '#2350c8', floor: '#82877f', contra: '#a1a39a' },
+  urroz: { stone: '#97694f', wall: '#c99a3e', marco: '#3a3a3a', floor: '#a19d95', contra: '#b9b4a9' },
+  peralta: { frontis: '#4f7f6a', wall: '#4f7f6a', floor: '#8e8a80', contra: '#aaa497' },
+};
+// la foto del frontón de verdad en que se basa cada una (su clave en data/frontones.js) y cómo se dice en la tarjeta de
+// «Elige tu frontón»: «Como el de Isaba»
+export const ARQ_REF = {
+  erminea: ['isaba', 'Como el de Isaba', 'Izabakoaren antzekoa'],
+  ziordia: ['ziordia', 'Como el de Ziordia', 'Ziordiakoaren antzekoa'],
+  iraneta: ['iraneta', 'Como el de Irañeta', 'Irañetakoaren antzekoa'],
+  igantzi: ['igantzi', 'Como el de Igantzi', 'Igantzikoaren antzekoa'],
+  urroz: ['urroz', 'Como el de Urroz', 'Urrozkoaren antzekoa'],
+  peralta: ['peralta', 'Como el de Peralta', 'Azkoiengoaren antzekoa'],
+};

diff --git a/ARQUITECTURA.md b/ARQUITECTURA.md
@@ -144,7 +144,7 @@ cuando cambie la estructura. Las copias de seguridad son ramas de git `copia-AAA
 | `src/world/sombraCopas.js` (noviembre de 2026) | La sombra de las copas de los árboles en el suelo: una textura de todo el mapa vista desde arriba (1024 px, un píxel por metro, de un solo canal) con la mancha de cada árbol y sus claros, que el propio suelo lee y le oscurece (`terrain.js`, `tCopas`). Se corre hacia donde cae la sombra según el sol, se apaga de noche y con el cielo cubierto y, en media y alta, cerca de la cámara, donde ya hay sombras de verdad (`Nature.luz`). Al quitar árboles se pinta otra vez, una sola vez por fotograma. Antes era una malla de manchas pegada al terreno que nunca coincidía del todo con sus triángulos: en las cuestas flotaba o se hundía. Sin triángulos ni llamadas de dibujo de más. La textura se pinta en una lista de números (`pintaCopas`), cada mancha girada y escalada a mano, sin lienzo: con un lienzo de 1024 px y leerlo después, el primer fotograma del pueblo tardaba segundos en el navegador de pruebas (5,6 s; ahora 25 ms, con la misma imagen) |
 | `src/world/flora3d.js` y `leafSprig` (`src/ui/leafArt.js`) | Las plantas que se identifican en cada pueblo, en 3D. Los árboles tienen el porte de su especie (tabla `HABIT`: forma de la copa, dónde empieza, ramas principales y cuánto suben, copa en bultos, ramas torcidas, ramitas que cuelgan): tronco, ramas y ramillas de madera, y la copa hecha de cientos de ramitas planas con el dibujo de la hoja de su especie (`leafSprig`: hojas alternas, palmeadas o compuestas, mechones de agujas o ramitas planas del abeto). Los arbustos de hoja, un bulto oscuro por dentro con las ramitas por encima. Dos mallas por ejemplar (madera y hojas), sin archivos nuevos: las texturas se dibujan al entrar en el pueblo y se liberan al salir |
 | Fotos de flora en el menú y en la ficha | En Naturaleza, la foto de la planta entera ocupa el ancho de la tarjeta y su hoja va en un círculo encima; en la ficha, la otra foto (la hoja o la planta) va en un círculo en la esquina de la foto grande y, tocándolo, se cambian. De los árboles, fotos del árbol entero, para reconocer su forma |
-| Frontón cubierto | `PelotaCourt` con `hall: true` (`court.js`): cerrado, rebote y pared izquierda hasta el techo (`backH` y `leftH` de `setFeel`), grada con asientos y público sentado, luz de pabellón (`sky.indoor`). `hallVenue` en `fronton.js` lo monta aparte. El frontón de cada partido se elige en el menú de pelota y en el cuadro del torneo (`sedeHtml` en `game/torneo.js`; `sedes`, `venueDe` y `venueIntro` en `game/townGame.js`): el de la plaza del pueblo, el cubierto o el Labrit, y en Campeonatos también el de otro pueblo, que se carga con `exit('sports', { pelota })` de `main.js`. Sin elegir, el torneo va al cubierto y la final al Labrit (`sedeDe`); la elección del torneo se guarda por ronda en `T.sede` y la del partido libre de Campeonatos en el perfil. Se elige en «Elige tu frontón» (`eligeFronton`, `EF_CSS`), como el estadio en los juegos de fútbol: una tarjeta grande por frontón con la cancha tal como se juega (una imagen sacada del propio partido, con los pelotaris y el público: `assets/frontones-juego`, `ui/frontonFotos.js`, `canchaImg`) y, si la hay, la foto del de verdad en una esquina («El de verdad»: el Labrit y la plaza de Leitza, de `assets/frontones`). «Otro pueblo» abre las nueve sedes, cada una con su cancha (`otroPueblo`). Las imágenes se sacan con un guion de Playwright que juega un partido libre en cada sede y frontón y fotografía la cancha sin el marcador |
+| Frontón cubierto | `PelotaCourt` con `hall: true` (`court.js`): cerrado, rebote y pared izquierda hasta el techo (`backH` y `leftH` de `setFeel`), grada con asientos y público sentado, luz de pabellón (`sky.indoor`). `hallVenue` en `fronton.js` lo monta aparte. El frontón de cada partido se elige en el menú de pelota y en el cuadro del torneo (`sedeHtml` en `game/torneo.js`; `sedes`, `venueDe` y `venueIntro` en `game/townGame.js`): el de la plaza del pueblo, el cubierto o el Labrit, y en Campeonatos también el de otro pueblo, que se carga con `exit('sports', { pelota })` de `main.js`. Sin elegir, el torneo va al cubierto y la final al Labrit (`sedeDe`); la elección del torneo se guarda por ronda en `T.sede` y la del partido libre de Campeonatos en el perfil. Se elige en «Elige tu frontón» (`eligeFronton`, `EF_CSS`), como el estadio en los juegos de fútbol: una tarjeta grande por frontón con la cancha tal como se juega (una imagen sacada del propio partido, con los pelotaris y el público: `assets/frontones-juego`, `ui/frontonFotos.js`, `canchaImg`) y, si la hay, la foto del de verdad en una esquina («El de verdad»: el Labrit y la plaza de Leitza, de `assets/frontones`). «Otro pueblo» abre las nueve sedes, cada una con su cancha (`otroPueblo`). Las imágenes se sacan con un guion de Playwright que juega un partido libre en cada sede y frontón y fotografía la cancha sin el marcador. Cada cubierto tiene la arquitectura de un frontón de verdad de las fotos del capítulo «Frontones de Navarra» (`data/frontonArq.js`, `arqDe`; `ARQ` en `court.js`, desde el 13 de noviembre de 2026; antes eran todos la misma nave con otro color): el pabellón oscuro de Iruña; el Erminea de Isaba en Estella (techo blanco con cerchas claras y tubos de luz, frontis de hormigón con su marco azul, rayas amarillas); Ziordia en Leitza y Tafalla (pared azul y frontis de sillería en el marco); Irañeta en Elizondo (todo verde, bóveda de madera laminada y ventanal en arco encima del frontis); Igantzi en Lesaka (cerchas de madera con pendolón, frontis de bloques grises); Urroz en Sangüesa y Puente la Reina (cerchas rojas de acero en celosía, frontis de sillería rojiza, fondo amarillo, policarbonato detrás de la grada); y la nave en dientes de sierra de Peralta en Marcilla. Los colores de la cancha (`ARQ_LOOK`) pasan por `legible`: la pared, el frontis y la piedra se oscurecen lo justo para que la pelota se vea (en Urroz la pared es blanca y aquí ocre). La medida de la cancha y cómo se juega no cambian. En la tarjeta, la foto del frontón en que se basa: «Como el de Isaba» (`ARQ_REF`). Las plazas llevan la red de encima del frontis y del principio de la pared izquierda, sobre postes de acero (`buildRed`, `look.red`), como Leitza, Mendaza, Areso o Nazar; la de Leitza, con el frontis de revoco gris |
 | `src/hub/` | Centro de mando: inicio, mapa, pueblos, personajes (los seis jugables), insignias, pasaporte y perfil; `stage` dibuja el escenario 3D del selector de personaje (`diorama` solo lo usa `lab/portadabake.html`) |
 | `src/ui/` y `src/ui.js` | HUD, iconos SVG e iconos 3D horneados (`icon3d`, que guarda WebP en `src/assets/icons3d`), retratos, mapa y minijuegos pequeños. En las charlas, el retrato de cada vecino es una ilustración del autor de la plantilla de pelotaris (`vecinoSrc` de `ui/pelotariFig.js`: la del mismo nombre o una del mismo género, siempre la misma para cada nombre), en cabeza y hombros y entera dentro del recuadro; los avatares llevan su retrato ya hecho (`ui/portraits.js`). Hasta noviembre de 2026 se hacía en 3D con el muñeco de cada vecino durante la carga |
 | `src/ui/personajes.js` y `src/data/personajes.js` | Los personajes de Navarra: 24 fichas, 12 mujeres (reinas, maestra, abogada, etnógrafa, pintora, artista, golondrinas, etxekoandreak, conserveras) y 12 hombres y colectivos (músicos, deporte, viajes, ciencia, arquitectura, antropología, pastores trashumantes, las huertas), cada una con su misión en un pueblo (`FIGURE_TOWNS`, su recuerdo con el objeto de `items.js`) y en el menú (Personajes e inicio, las mujeres primero) |
